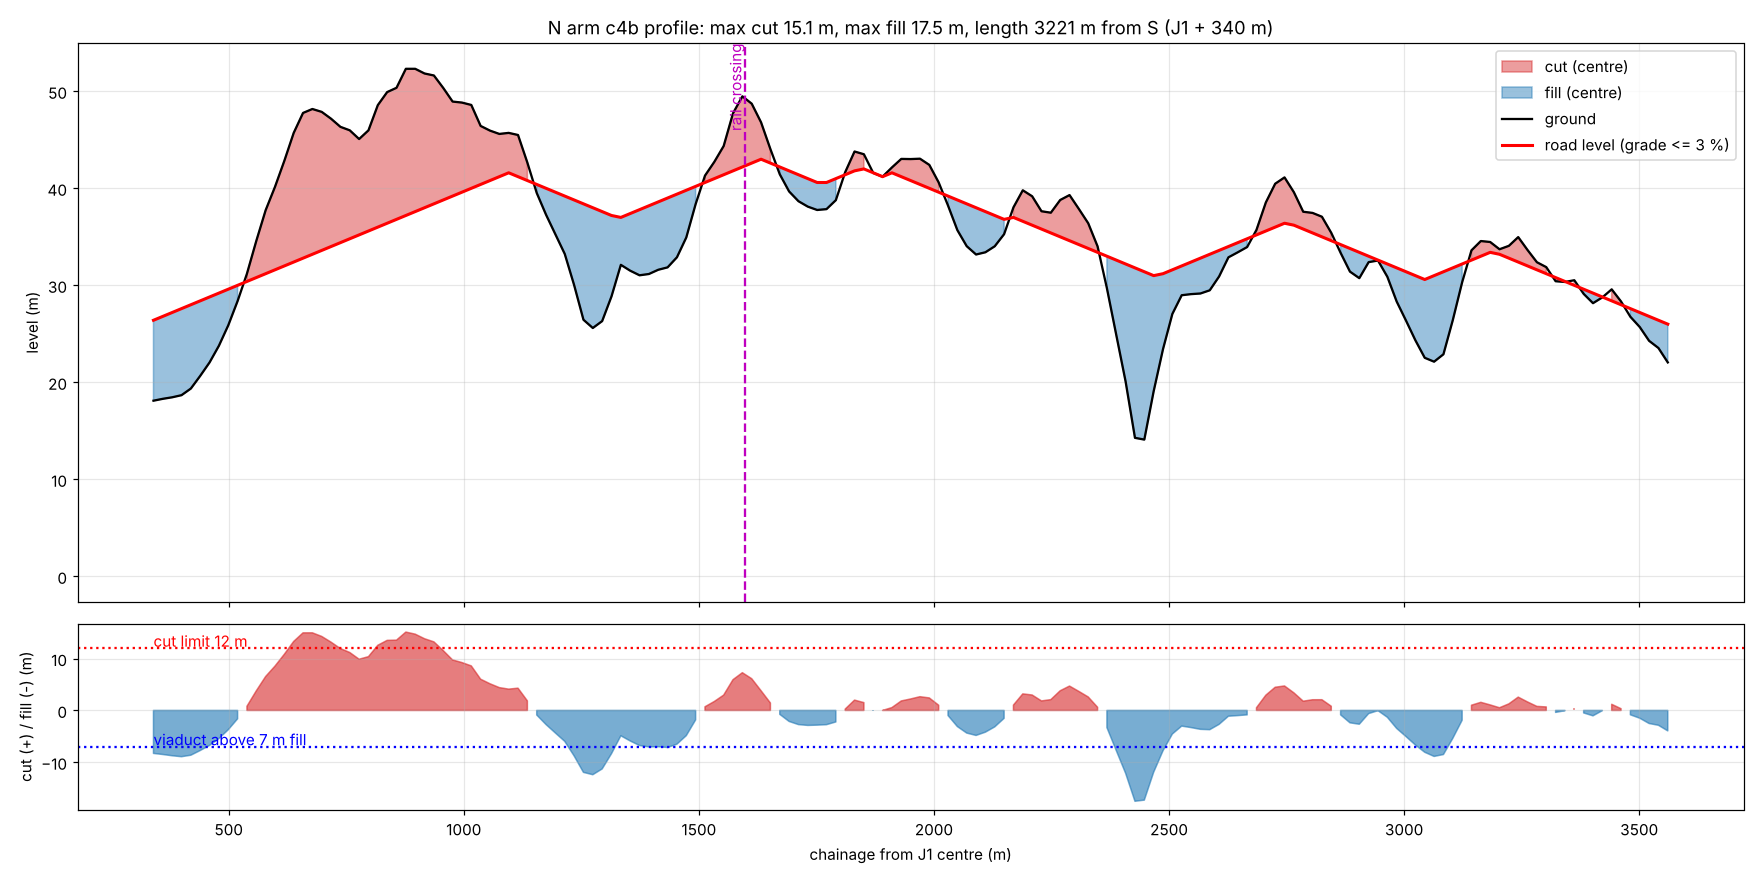
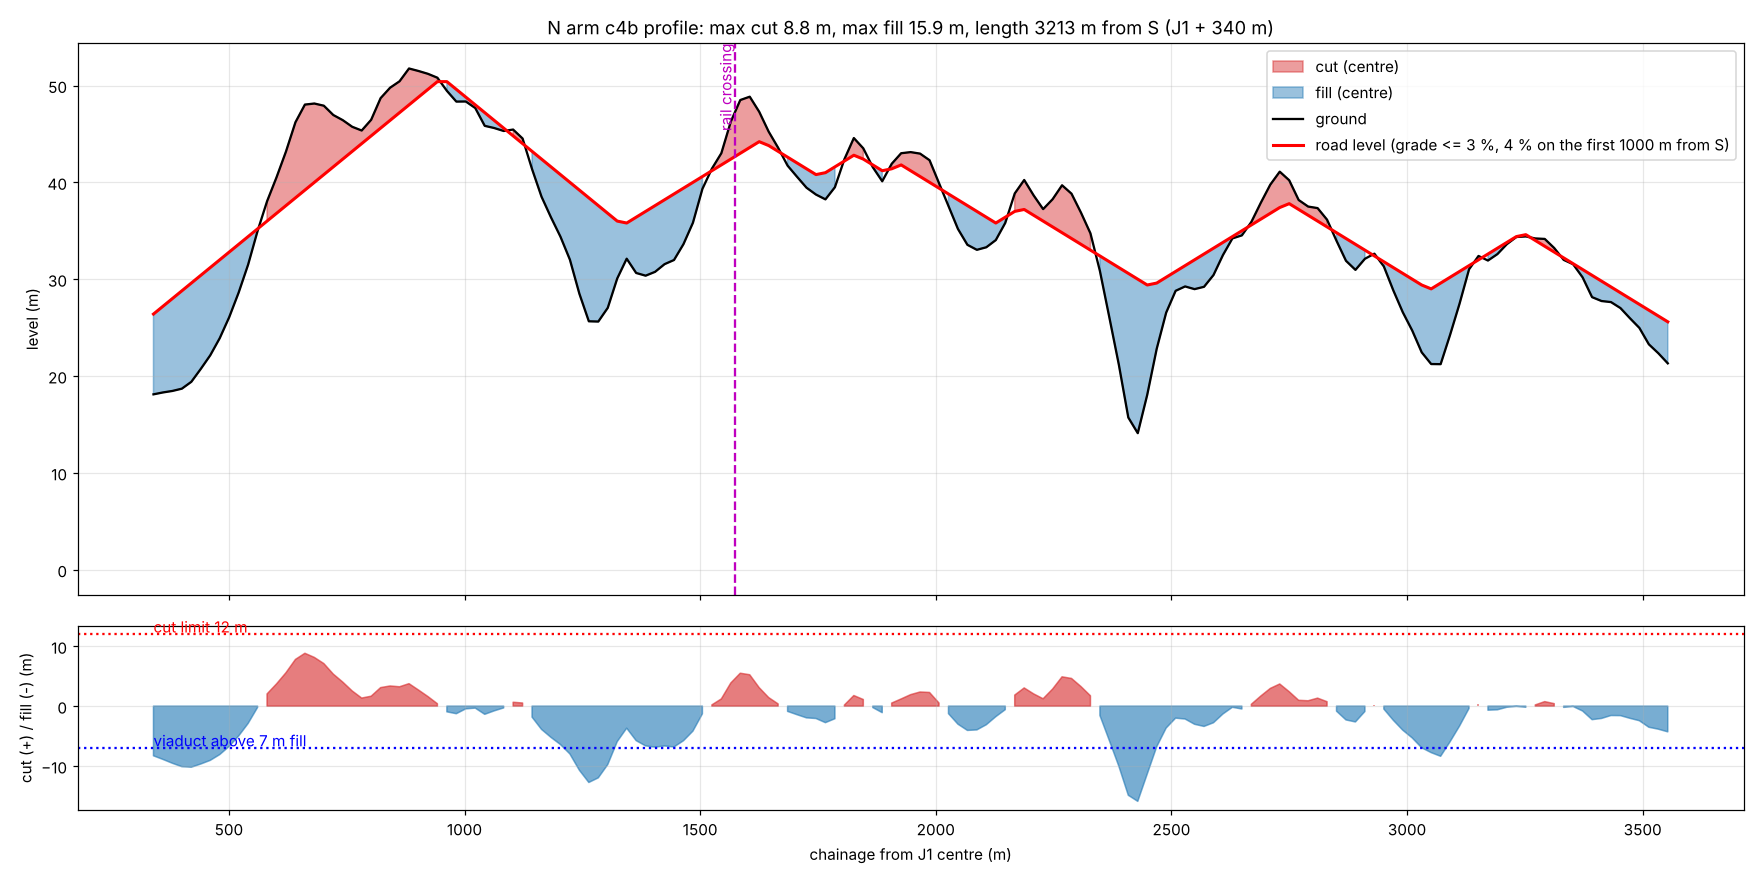
gjk

diff --git a/scripts/j1-n-align.ts b/scripts/j1-n-align.ts
@@ -46,6 +46,8 @@ const h1 = hr - Math.PI / 2;                                              // arr
 const ringPoint = (u: number): { x: number; z: number } => ({ x: rRef.x + u * Math.cos(hr), z: rRef.z + u * Math.sin(hr) });
 const U_LO = ST_LO - rRef.st + 150, U_HI = ST_HI - rRef.st - 150;         // keep 150 m inside the straight at least
 const R_MIN = 591, LS = 100, V = 100, DS = 20;
+const GH = Number(process.env.GHILL ?? 0.04), HILL_END = Number(process.env.HILLEND ?? 1000);   // grade limit on the first HILL_END m from S (user 2026-11-14: allow steeper on the hill stretch); 3 % elsewhere
+const gLim = (s: number): number => (s < HILL_END ? GH : 0.03);
 const ZONES_ON = process.env.ZONES !== '0';                                 // ZONES=0: engineering zones / fences may be crossed (user 2026-11-14: buildings move to the roads; the RAILWAY stays fixed)
 
 // ---------------------------------------------------------------- parameters -> alignment
@@ -85,7 +87,7 @@ function evaluate(p: Par, detail = false): Eval {
     } else if (g < 100) pen += 0.4 * (100 - g) ** 2;                                  // a little straight at both ends
   }
   if (pen >= 1e5) return { cost: 1e7 + pen, ok: false, zoneN: 0, wetN: 0, note: 'overlap' };
-  const n = Math.ceil(al.length / DS), ds = al.length / n;
+  const n = Math.max(1, Math.floor(al.length / DS)), ds = al.length / n;   // ds >= DS so that kmax bins of DH never exceed the grade limit
   const gmax = new Float64Array(n + 1), gmin = new Float64Array(n + 1);
   let zoneN = 0, wetN = 0;
   for (let i = 0; i <= n; i++) {
@@ -106,7 +108,7 @@ function evaluate(p: Par, detail = false): Eval {
   for (let k = 0; k < NL; k++) if (lvl(k) >= yLo && lvl(k) <= yHi) cur[k] = stepCost(0, lvl(k));
   for (let i = 1; i <= n; i++) {
     const nxt = new Float64Array(NL).fill(Infinity), pp = new Int16Array(NL).fill(-1);
-    const kmax = Math.floor((0.03 * ds) / DH + 1e-9);
+    const kmax = Math.floor((gLim(i * ds) * ds) / DH + 1e-9);
     for (let k = 0; k < NL; k++) {
       const c = stepCost(i, lvl(k)); let best = Infinity, bk = -1;
       for (let d = -kmax; d <= kmax; d++) { const kk = k + d; if (kk < 0 || kk >= NL) continue; if (cur[kk] < best) { best = cur[kk]; bk = kk; } }
@@ -201,6 +203,7 @@ for (let i = 1; i < sm.length; i++) for (const e of RAIL) for (let k = 0; k + 1 
 P(`  INFO  rail crossings (road over rail, 6.5 m clearance, 6.1d): ${railX.length} at s ${railX.join(', ') || '-'} m from S`);
 // vertical preview
 const n = prof.length - 1, dsP = al.length / n;
+let gBad = 0, gHill = 0, gRest = 0;
 let cutMax = 0, fillMax = 0, c8 = 0, c12 = 0, f7 = 0, gMax = 0, volCut = 0;
 const gnd: number[] = [];
 for (let i = 0; i <= n; i++) {
@@ -209,11 +212,11 @@ for (let i = 0; i <= n; i++) {
   gnd.push(g0); const c = g0 - prof[i];
   cutMax = Math.max(cutMax, c); fillMax = Math.max(fillMax, -c);
   if (c > 8) c8 += dsP; if (c > 12) c12 += dsP; if (-c > 7) f7 += dsP; if (c > 0) volCut += dsP * (c * (44.2 + 6 + 1.5 * c)); void gm;
-  if (i > 0) gMax = Math.max(gMax, Math.abs(prof[i] - prof[i - 1]) / dsP);
+  if (i > 0) { const gg = Math.abs(prof[i] - prof[i - 1]) / dsP; gMax = Math.max(gMax, gg); if (gg > gLim(i * dsP) + 1e-6) gBad++; if (i * dsP < HILL_END) gHill = Math.max(gHill, gg); else gRest = Math.max(gRest, gg); }
 }
 P(`  VERTICAL PREVIEW (grade <= 3 % DP profile, the real profile is c4c): max centre cut ${f1(cutMax)} m, cut > 8 m ${f0(c8)} m, cut > 12 m ${f0(c12)} m, max fill ${f1(fillMax)} m, fill > 7 m (viaduct) ${f0(f7)} m, max grade ${f2(gMax * 100)} %, cut volume about ${(volCut / 1e6).toFixed(2)} million m3 (rough)`);
 CHK('no centre cut over 12 m (user: hill cut must go; 12 m = section 3.7 limit 12 m)', c12 === 0, `max cut ${f1(cutMax)} m`);
-CHK('grade <= 3 %', gMax <= 0.0301, `${f2(gMax * 100)} %`);
+CHK(`grade <= 3 % (<= ${f1(GH * 100)} % on the first ${HILL_END} m from S)`, gBad === 0, `max ${f2(gHill * 100)} % on the hill stretch, ${f2(gRest * 100)} % elsewhere`);
 const fails = checks.filter((c) => !c.pass).length;
 P(`SUMMARY: ${checks.length - fails} PASS, ${fails} FAIL`);
 writeFileSync(`${out}/STEPJ1C4B_OUTPUT.txt`, lines.join('\n') + '\n');

diff --git a/tools/j1-n-profile-plot.py b/tools/j1-n-profile-plot.py
@@ -8,7 +8,7 @@ fig, ax = plt.subplots(2, 1, figsize=(16, 8), sharex=True, gridspec_kw={'height_
 a = ax[0]
 a.fill_between(s, g, y, where=g > y, color='tab:red', alpha=.45, label='cut (centre)')
 a.fill_between(s, g, y, where=g < y, color='tab:blue', alpha=.45, label='fill (centre)')
-a.plot(s, g, 'k', lw=1.5, label='ground'); a.plot(s, y, 'r', lw=2, label='road level (grade <= 3 %)')
+a.plot(s, g, 'k', lw=1.5, label='ground'); a.plot(s, y, 'r', lw=2, label='road level (grade <= 3 %, 4 % on the first 1000 m from S)')
 a.axhline(0, lw=0)
 for x, t in [(340 + c, 'rail crossing') for c in A['railCrossS']]: a.axvline(x, color='m', ls='--'); a.text(x, a.get_ylim()[1], t, color='m', rotation=90, va='top', ha='right')
 a.set_ylabel('level (m)'); a.legend(loc='upper right'); a.set_title(f"N arm c4b profile: max cut {A['cutMax']:.1f} m, max fill {A['fillMax']:.1f} m, length {A['length']:.0f} m from S (J1 + 340 m)"); a.grid(alpha=.3)

diff --git a/HANDOFF_ROAD_DESIGN.md b/HANDOFF_ROAD_DESIGN.md
@@ -583,7 +583,7 @@ Road signs, traffic lights logic changes, new vehicle types, weather effects on 
 | J1-a | J1 calculation sheet and layout (15.9) | done 2026-11-13 at C9 (-117, -277): 12 PASS, 0 FAIL, waiting OK | | scripts/j1-ground-calc.ts (J1X / J1Z env = another point), docs/STEPJ1A_OUTPUT.txt, docs/j1a.json, docs/j1a_layout.png, tools/j1a-plot.py. POINT MOVED (user: "do what is best"): at C8 (0, -250) the east approach had only 189 m from the stop line, 104 m short (rail north-1 crosses the east axis at 288 m, nearly 90 deg; yaw scan 10-28 deg does not help). Fine scan of J1 along its own axes: best = 120 m west + 10 m south = C9 (-117, -277), yaw 17.6 kept; clear N 340, E 340, S 340, W 350 m against need N 330, E 324, S 330, W 324 m (margin >= 10 m). Site check of C9 (j1-site-check.ts, candidate C9): flat dry box +-200 m (same as C8), rail 396 m from the centre, bends N 15.1, E -8.8, S 4.0, W -10.2 deg (limit 20), arms >= 2498 m, dense city plan under the +-300 box 36 % (C8 50 %), centre 289 m from Central Station edge. LAYOUT per approach: inbound 1 left slip + 4 through + 2 right pockets = 7 lanes (25.6 m), outbound 4 + 1 = 5 lanes, central island 3 m; box 54.1 m wide, crosswalk 4 m, stop line 31.1 m from the centre; slip corner R 25 m (Rmin of 25 km/h 12.5 m). FLOWS ASSUMED (pcu/h, until 6.4) L/T/R: N 350/1200/300, E 280/1000/250, S 320/1100/300, W 300/1000/250 (AADT-equivalent 25-31 thousand). SIGNAL 4 phases (N+S through, N+S right pockets, E+W through, E+W right pockets; left = free slip lane): yellow 3.73 s, all red 3.61 s, L 29.4 s, Y 0.49, Webster C0 95 s -> cycle 100 s, greens 24 / 14 / 20 / 12 s, x <= 0.69, all flows x 1.21 still pass. QUEUES (95th, 8 m per pcu): through lane 81-90 m, right pocket 54-59 m. POCKET = braking 56 + storage + taper 85 = 194-200 m; plus step-down 100 -> 60 km/h 99 m: need from the stop line 293-299 m, available 309-319 m: all four FIT. PEDESTRIANS: leg 46.8 m, single stage 54 s, two-stage 33 s per stage, concurrent green only 20-24 s: at grade NOT possible, grade-separated crossing (rule 3.14): proposal underpass (ramp 41 m each side) if the water table allows (J1-c), else footbridge (ramp 78 m). NOTE: the 50 m rail buffer stops the clear length of E and S at 340 m (rail 68 m from the axis, needs 72); the arm rail crossings (E north-1 at about 409 m, S west-nw at about 411 m) are for 6.1d |
 | J1-a2 | J1 rotation (yaw scan + shift) | done 2026-11-14: J1 = C10 (-87, -277), yaw 37.5, 12 PASS 0 FAIL, waiting OK | OK on yaw about 37 and bend limit 35 deg | Why: N arm hill cut (36 m) rejected by the user, bypass impossible, user asked to rotate. scripts/j1-ground-calc.ts (env J1YAW, J1X, J1Z), scripts/j1-n-hybrid.ts (env J1X J1Z J1YAW HMIN HMAX), tools/j1-n-hybrid-plot.py (env J1X J1Z J1YAW), docs/STEPJ1A2_OUTPUT.txt, docs/STEPJ1A2_SCAN.txt, docs/j1c4_hybrid.json, docs/j1c4a_yaw375.png. N arm: max cut 9-10 m, 3149 m, T at the ring (~90 deg). See 15.8.8. NEXT: redo J1-b, c1, c2 (S), c3 (E) for C10, then c4b/c4c (N arm smoothing + profile), c5 (W arm around the hill) |
 | J1-a2b | J1-b, J1-c1, S arm, E arm redone for C10 (-87, -277), yaw 37.5 | done 2026-11-14: J1-b 32 PASS 0 FAIL; c1 3 PASS; S 4 PASS; E 4 PASS, waiting OK | | src/roads/junction/GroundJ1Geometry.ts (J1_SITE, J1_APPROACH_INPUTS), scripts/j1-ground-check.ts, docs/j1a.json, j1b.json, j1b_layout.png, STEPJ1B_OUTPUT.txt, j1c1.json, STEPJ1C1_OUTPUT.txt, j1c_S.json, j1c_E.json, STEPJ1C_S_OUTPUT.txt, STEPJ1C_E_OUTPUT.txt. Pad y 18.19 m, grade 0.63 %; S edge cut 1.02 m / fill 0.42 m; E edge cut 0.12 m / fill 1.94 m. See 15.8.8. NEXT: c4b (N arm smoothing to straight-spiral-arc, move off the tech-park buffer), c4c (N profile), c5 (W arm around the hill), 6.1d |
-| J1-c4b | N arm as a real alignment (straight-spiral-arc-spiral-straight, 3 PIs), T on the ring N straight | done 2026-11-14 (headless search): 10 PASS, 1 FAIL (centre cut 15.1 m > 12 m), waiting OK | | src/roads/alignment/OpenAlignment.ts (new), scripts/j1-n-align.ts (npx tsx scripts/j1-n-align.ts docs [nPi] [iters] [seed]), docs/j1c4b_align.json, docs/STEPJ1C4B_OUTPUT.txt. RESULT (3 PIs, seed 1): S (120.0, -546.7) heading -52.5 deg, E (2086.4, -2776.0) at ring st 12074 (1025 m from the west end, 438 m from the east end of the N straight), T 90.0 deg, length 3221 m (straight line 2973 m). PI0 (367.8, -869.7) R 592 delta -33.4; PI1 (442.1, -1914.7) R 731 delta +68.2; PI2 (1604.0, -2286.6) R 1051 delta -27.7; all Ls 100, straights 179/275/366/378 m. Tech-park 48 m away (>= 45 OK), 1 rail crossing at s 1258, wet 40 m (bridge). VERTICAL PREVIEW: max cut 15.1 m (cut > 12 m for 239 m), fill > 7 m 437 m (viaduct), grade 2.0 %. Only FAIL = cut 12 m. Tried 4 and 5 PIs and other seeds: cut 14.6-18.8 m and worse zone/closure results, so about 15 m is the floor with R >= 591 and a perpendicular T. PICTURES: tools/j1-field-plot.py -> docs/j1_field.png (plan on terrain), tools/j1-n-profile-plot.py -> docs/j1_n_profile.png (ground vs road level). USER DECISION 2026-11-14: roads are finalized FIRST, the RAILWAY CANNOT CHANGE (roads cross it over/under), parks / engineering zones / other buildings may be crossed by the road and are re-placed to the roads later (zone buffer 45 m is no longer a hard rule). scripts/j1-n-align.ts now has env ZONES=0 (zones ignored). Re-run with ZONES=0, 3-4 PIs, 5 seeds: cut still 16.3-16.5 m (cut > 12 m for 140-160 m), so the cut is NOT caused by the zones: it is the hill spur at s 500-1150 where the 3 % climb from the pad (18.2 m) cannot reach the ground (48 m). Default run (zones kept, 3 PIs) stays the best: cut 15.1 m. NEXT: user decides (accept ~15 m cut / grade limit above 3 % on the hill stretch / skew T / allow a skew T of up to 80 deg / more gentle R), then c4c N profile (real vertical curves), c5 W arm, 6.1d |
+| J1-c4b | N arm as a real alignment (straight-spiral-arc-spiral-straight, 3 PIs), T on the ring N straight | done 2026-11-14: 11 PASS, 0 FAIL, waiting OK | USER 2026-11-14: grade up to 4 % ALLOWED on the hill stretch (first 1000 m from S), 3 % elsewhere; roads first, RAILWAY CANNOT CHANGE, parks / zones / buildings may be crossed and are re-placed to the roads later | src/roads/alignment/OpenAlignment.ts (new), scripts/j1-n-align.ts (GHILL=0.04 npx tsx scripts/j1-n-align.ts docs 3 12000 3; env GHILL, HILLEND, ZONES=0), tools/j1-field-plot.py, tools/j1-n-profile-plot.py, docs/j1c4b_align.json, docs/STEPJ1C4B_OUTPUT.txt, docs/j1_field.png, docs/j1_n_profile.png. BUG FIXED: the old DP rounded the level step down, so the real grade limit was about 2 % (not 3 %) and the cut looked like 15-16 m; with the fix and true 3 % the cut is still 12.3-14.6 m, with 4 % on the hill it is 8.8 m. RESULT (3 PIs, seed 3): S (120.0, -546.7) heading -52.5 deg, E (2100.2, -2762.5) at ring st 12094 (1045 m from the west end, 418 m from the east end), T 90.0 deg, length 3213 m (straight line 2972 m). PI0 (371.7, -874.7) R 606 delta -33.7; PI1 (440.5, -1916.2) R 768 delta +69.4; PI2 (1616.1, -2271.3) R 1538 delta -28.6; all Ls 100; straights 180/228/204/247 m. Tech-park 47 m (>= 45 OK), 1 rail crossing at s 1234 (road over rail), wet 45 m (bridge). VERTICAL PREVIEW: max cut 8.8 m (cut > 12 m: 0 m), max fill 15.9 m, fill > 7 m (viaduct) 382 m, grade 3.98 % on the hill stretch and 2.99 % elsewhere, cut about 0.17 million m3. NEXT: c4c N profile (real vertical curves, K values for the 4 % stretch), c5 W arm, 6.1d |
 | J1-b | J1 geometry data (pure math) | done 2026-11-13 at C9 (-117, -277): 32 PASS, 0 FAIL, waiting OK | | src/roads/junction/GroundJ1Geometry.ts, scripts/j1-ground-check.ts (run: tsx scripts/j1-ground-check.ts docs), docs/STEPJ1B_OUTPUT.txt, docs/j1b.json, docs/j1b_layout.png, tools/j1b-plot.py. RESULT: real box half B = 19.75 m (J1-a assumed 27.05 m, so the J1-a signal numbers stay valid, conservative); stop line 23.75 m from the centre (J1-a 31.05 m). Cross-section per arm (o from the axis): 4 outbound lanes -19.75..-5.15, median island 3.0 m, 2 right pockets (R2 inner, R1 outer) -2.15..5.15, 4 inbound through lanes 5.15..19.75, left slip lane 19.75..23.4. Through lanes of opposite arms line up exactly (no lateral shift). POCKETS from the stop line: R1 N/S 116 + 85, E/W 110 + 85 m; R2 is 30 m shorter at both ends (ASSUMED stagger, tapers W V^2 / 155 = 84.8 m). SLIP LANE: taper-in 84.8 m, full width 45.9 m, kerb arc R 25 m (arc centre (48.4, 48.4)), receiving lane = acceleration 95.6 m + merge taper 84.8 m, ends at s 228.8. MEDIAN shifts back to the M8 section (0.65 m in 40.3 m) after all tapers: lane zone ends at s = 269 m on every arm (clear 340 / 340 / 340 / 350 m). Corner island nose 1.0 m (ASSUMED), slip zebra at 45 deg of the arc (ASSUMED), all 4 corners identical. Footprint for J1-f: box 39.5 x 39.5 m, corner kerbs reach 53.8 m, inside the M8 ROW (40 m each side of the axes). Sight: SSD at 25 km/h 24.5 m, kerb and island side sight lines clear of the building line |
 | J1-c | J1 profile and terrain (SMALL STEPS, user order: J1 first, then arms; each step small so the chat limit is not hit) | in progress | | c1 = J1 pad plane on the ground (DONE 2026-11-13, 3 PASS: grade 0.51 %, max cut/fill 0.33 m, pad y 18.25 m, world a -0.00342 b 0.00384, rCore 60 m, emb 20 m; scripts/j1-pad-fit.ts, docs/j1c1.json, docs/STEPJ1C1_OUTPUT.txt). ORDER CHANGED (hill on N and W): c2 = arm S DONE 2026-11-13 (4 PASS: pad plane to s 60 m, then grade -0.30 %, curve 8 m, edge cut 0.53 m / fill 0.54 m; docs/j1c_S.json, STEPJ1C_S_OUTPUT.txt); c3 = arm E DONE 2026-11-13 (4 PASS: grade +0.30 %, curve 9 m, edge cut 0.36 m / fill 1.08 m; docs/j1c_E.json, STEPJ1C_E_OUTPUT.txt). Both made by scripts/j1-arm-profile.ts (tsx scripts/j1-arm-profile.ts <N|E|S|W> docs 500). c4a = N arm PLAN ROUTE search DONE 2026-11-14 (waiting OK): scripts/j1-n-raster.ts, scripts/j1-n-route.ts, tools/j1-n-plot.py, docs/j1c4_raster.json, docs/j1c4_route.json, docs/STEPJ1C4A_OUTPUT.txt, docs/j1c4a_route.png. Search = least cost on (20 m cell, road height 0.5 m), grade <= 3 %, edge cut <= 3 m, edge fill <= 10 m, zones + 45 m and wet cells penalised, no earthwork limit in the last 150 m before the ring N point (ring cut 6 m there). Start = s 340 m on the axis (end of the lane zone; the 500 m straight is dropped on N because the ground climbs 20 -> 59 m between s 400 and 600), target = ring N st 11549 (1711.5, -3145.5) level 36.9 m. RESULT: the hill (up to 368 m) and a ridge at x 300 block the direct way, the low land (20 m) north of z -2200 is too low for a 36.9 m ring level. Options: A cut<=3 / fill<=10, zones kept = 6158 m (max edge cut 2.98, fill 9.88, 0 zone cells, 0 rail crossings, max grade 2.5 %); B zones ignored = 5428 m; C fill<=7 = 7904 m. Straight line is 3074 m. Cell grid route is jagged: smoothing to straight-spiral-arc is c4b, profile is c4c. USER 2026-11-14 on c4a: the 6.2 km winding route A is REJECTED (an 8-lane road must be nearly straight, only gentle bends, like the ring). c4a2 = GENTLE-BEND route DONE (waiting OK): scripts/j1-n-hybrid.ts (heading-aware search, cell 30 m, heading 5 deg, 90 m moves with max 5 deg turn = R >= 1031 m, grade <= 3 %), tools/j1-n-hybrid-plot.py, docs/j1c4_hybrid.json, docs/j1c4a_gentle.png. RESULT: 3170 m from J1 (straight line 2995 m from s 340), 14 turning steps of 5 deg only (heading -72.5 -> -62.5 deg), ends at the east end of the ring N straight (about st 12010, x 2025, z -2795) at the ring level 27 m... COST: ONE deep cut through the hill spur at route s 140-820 (max centre cut about 34-38 m, cut > 20 m for 390 m, about 1.3 million m3), fill > 3 m on 570 m (max 18 m, viaduct parts), river bridge at s 1660 (40 m wet), rail north-1 crossed at s 740 (road over rail), touches the eng-tech-park buffer at its NW corner (shift needed), eng-aerospace 57 m away. No cut <= 12 m route exists with R >= 1031 m. NEXT: user picks (straight with the deep cut / more bend / other), then c4b smoothing to straight-spiral-arc, c4c profile. c5 = W arm. GROUND PROBE of the straight axes (every 100 m to 2500 m): S max 22 m, E max 33 m (easy); N rises 18 -> 132 m at s 900 then 20 m at 2500; W rises 18 -> 190 m at s 900 (3 % cannot climb it). USER DECISION 2026-11-13: go around the hill, only SMALL cuttings (an 8-lane deep cutting is bad), NO tunnel; the "1 km straight perpendicular" rule may be relaxed after the straight part. User wants each reply small (chat limit), CHANGED FILES ONLY in the zip, and THIS file (HANDOFF_ROAD_DESIGN.md) is the main handoff, updated every step; HANDOFF.md is not used for road work (one arm per step: vertical curves, grade <= 3 %, side-slope earthwork), c6 = PadSpec + terrain carve in game. Probe: ground rises steeply on N and W beyond s 400 m (N 18 -> 34 m at s 500) |
 | J1-d | J1 signals and markings data | not started | | |
